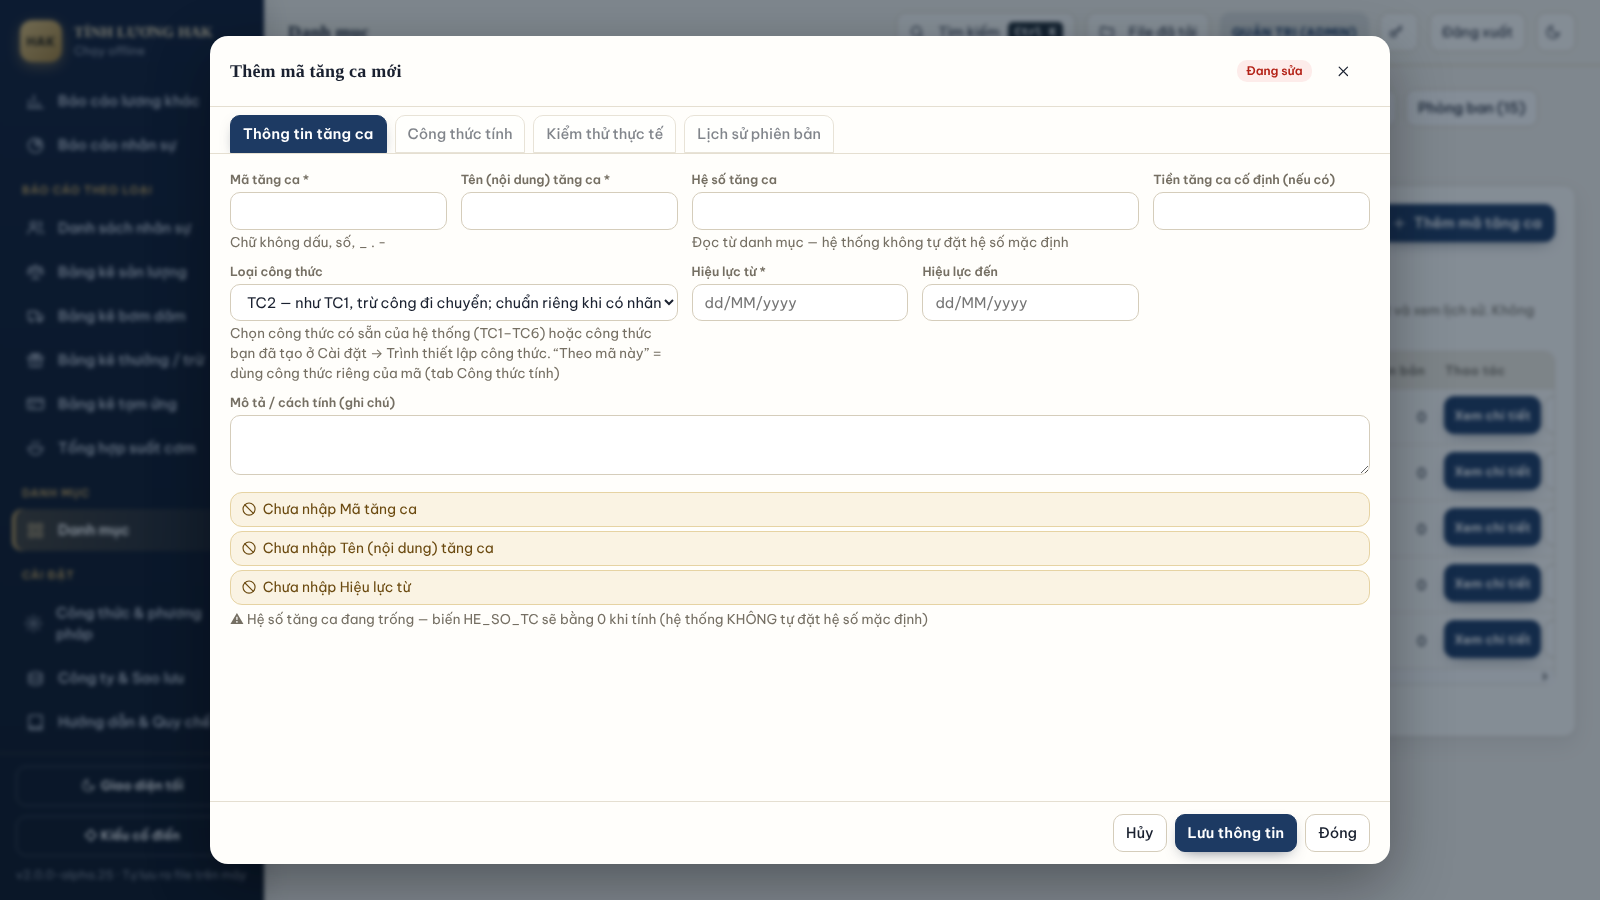
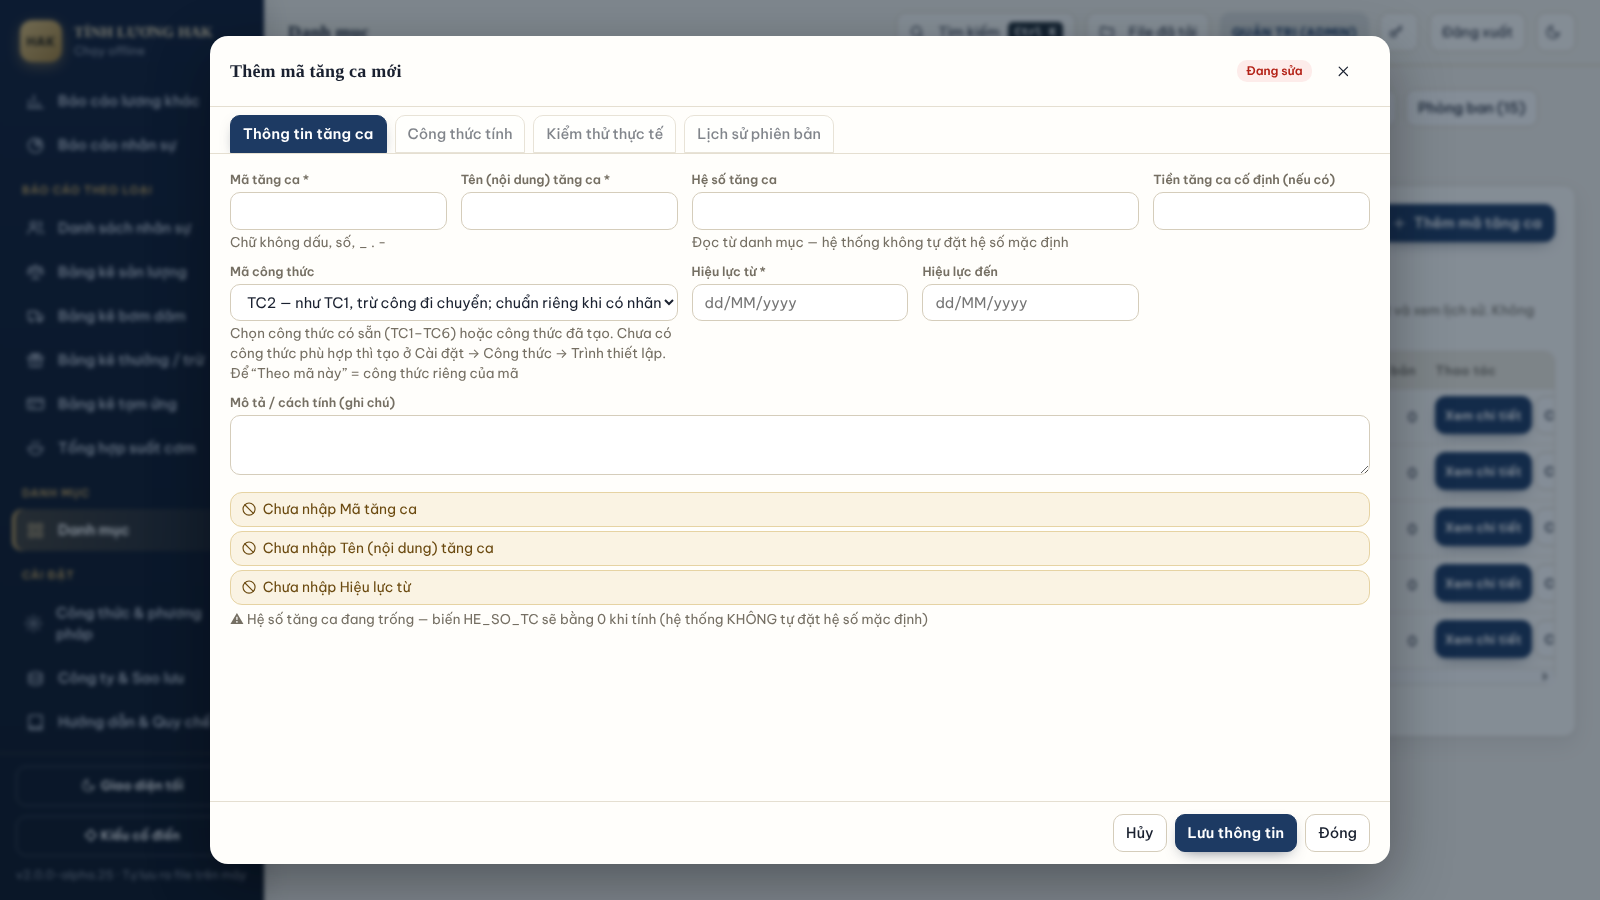
V10.3: mẫu công thức không bắt buộc (mặc định tự viết), Danh mục chỉ chọn Mã công thức
Claude-Session: https://claude.ai/code/session_01XqhkZaT6LSKzcUTdDwFx7z

diff --git a/LuongHAK_Offline/app.js b/LuongHAK_Offline/app.js
@@ -2184,29 +2184,30 @@
   /** Trình thiết lập công thức (V10): chọn loại → chọn mẫu → nhập số mẫu để xem giải thích bằng số thật → lưu Nháp (qua REPO, vẫn phải duyệt/kích hoạt). */
   var WZ_SAMPLE = { CONG_CHUAN: 26, CONG_TINH_LUONG: 28, CONG_TC: 2, CONG_LE: 0, CONG_PHEP: 0, CONG_TRUNG_CHUYEN: 0, CONG_DI_CHUYEN: 0, CONG_CHU_NHAT: 1, CONG_CHUAN_2: 0, HE_SO_TC: 1.5, MUC_PHU_CAP: 500000, NGUONG_PHU_CAP: 2, CONG_HUONG_PHU_CAP: 24, SO_NGAY_DUOC_HUONG: 10, MUC_HO_TRO: 50000, CONG_THUC_TE: 24, SO_XE_HOP_LE: 8, DON_GIA_HO_TRO: 20000 };
   function ctWizardPanel() {
-    var Wz = st.ctWz = st.ctWz || { loai: "OVERTIME", mau: 0, vars: {}, ma: "", ten: "", tu: "" };
+    var Wz = st.ctWz = st.ctWz || { loai: "OVERTIME", mau: -1, vars: {}, ma: "", ten: "", tu: "" };
     var box = h("div", { class: "card", "data-ct-wizard": "1" });
-    box.appendChild(h("div", { class: "hint", text: "Làm theo 4 bước: (1) chọn loại, (2) chọn mẫu gần nhất với quy chế rồi SỬA biểu thức cho đúng quy chế của bạn (hoặc chọn “Tự soạn” để viết từ đầu), (3) nhập số ví dụ để xem công thức tính ra bao nhiêu, (4) đặt mã/tên và lưu Nháp. Công thức lưu ở trạng thái Nháp, vẫn phải Gửi duyệt → Duyệt → Kích hoạt; kỳ lương đã chốt không bị đổi." }));
+    box.appendChild(h("div", { class: "hint", text: "Tạo công thức mới: (1) chọn loại, (2) viết biểu thức — muốn có sẵn khung thì chọn “Điền sẵn từ mẫu”, KHÔNG bắt buộc, (3) nhập số ví dụ để thử, (4) đặt mã/tên và lưu Nháp. Công thức lưu ở trạng thái Nháp, vẫn phải Gửi duyệt → Duyệt → Kích hoạt; kỳ lương đã chốt không bị đổi. Sau đó ở Danh mục (Tăng ca / Phụ cấp / Hỗ trợ) chỉ cần chọn mã công thức này." }));
     var step = function (n, t) { box.appendChild(h("div", { class: "fh", text: "Bước " + n + " — " + t })); };
     step(1, "Loại công thức");
     var bar = h("div", { class: "bar" });
-    CT_LOAI.forEach(function (lo) { bar.appendChild(btn(ctLoaiTen(lo[0]), Wz.loai === lo[0] ? "pri" : "", function () { Wz.loai = lo[0]; Wz.mau = 0; Wz.vars = {}; Wz.expr = null; render(); })); });
+    CT_LOAI.forEach(function (lo) { bar.appendChild(btn(ctLoaiTen(lo[0]), Wz.loai === lo[0] ? "pri" : "", function () { Wz.loai = lo[0]; Wz.mau = -1; Wz.vars = {}; Wz.expr = null; render(); })); });
     box.appendChild(bar);
-    var mau = CT_TEMPLATES.filter(function (x) { return x.loai === Wz.loai && !x.chuaKetNoi; }).concat([{ custom: true, loai: Wz.loai, ten: "— Tự soạn công thức mới (bắt đầu từ ô trống) —", moTa: "Tự viết biểu thức bằng các biến ở tab Thư viện biến và các hàm MIN / MAX / ROUND / IF. Ô “Số ví dụ” bên dưới giúp kiểm tra kết quả.", bieuThuc: "" }]);
-    step(2, "Chọn mẫu");
-    var sel = h("select", { "aria-label": "Mẫu công thức", style: "max-width:100%" });
-    mau.forEach(function (x, i) { sel.appendChild(h("option", { value: i, text: x.ten })); }); sel.value = Wz.mau;
+    var mau = CT_TEMPLATES.filter(function (x) { return x.loai === Wz.loai && !x.chuaKetNoi; });
+    step(2, "Biểu thức công thức");
+    var sel = h("select", { "aria-label": "Điền sẵn từ mẫu", style: "max-width:100%" });
+    sel.appendChild(h("option", { value: "-1", text: "— Không dùng mẫu: tự viết biểu thức —" }));
+    mau.forEach(function (x, i) { sel.appendChild(h("option", { value: i, text: "Điền sẵn từ mẫu: " + x.ten })); }); sel.value = String(Wz.mau);
     sel.addEventListener("change", function () { Wz.mau = +sel.value; Wz.vars = {}; Wz.expr = null; render(); });
-    box.appendChild(sel);
-    var T = mau[Wz.mau]; if (!T) return box;
-    box.appendChild(h("div", { class: "hint", text: T.moTa }));
+    box.appendChild(h("div", { class: "fld" }, [h("label", { text: "Mẫu có sẵn (không bắt buộc)" }), sel]));
+    var T = Wz.mau >= 0 && mau[Wz.mau] ? mau[Wz.mau] : { custom: true, ten: "", moTa: "", bieuThuc: "" };
+    if (T.moTa) box.appendChild(h("div", { class: "hint", text: T.moTa }));
     var biThuc = Wz.expr != null ? Wz.expr : T.bieuThuc;
     var taE = h("textarea", { rows: 2, "aria-label": "Biểu thức", style: "width:100%;font-family:monospace", "data-ct-wizard-expr": "1" }); taE.value = biThuc;
     taE.addEventListener("change", function () { Wz.expr = taE.value; Wz.vars = {}; render(); });
-    box.appendChild(h("div", { class: "fld" }, [h("label", { text: "Biểu thức (sửa trực tiếp được — mẫu chỉ là điểm bắt đầu)" }), taE]));
+    box.appendChild(h("div", { class: "fld" }, [h("label", { text: "Biểu thức" }), taE]));
     if (Wz.expr != null && Wz.expr !== T.bieuThuc && T.bieuThuc) box.appendChild(btn("↺ Khôi phục biểu thức của mẫu", "", function () { Wz.expr = null; Wz.vars = {}; render(); }));
     var vrW = FML.validate(biThuc || "");
-    if (!biThuc.trim()) { box.appendChild(h("div", { class: "hint", text: "Nhập biểu thức ở ô trên (VD: ROUND(MUC_PHU_CAP * CONG_HUONG_PHU_CAP / CONG_CHUAN))." })); return box; }
+    if (!biThuc.trim()) { box.appendChild(h("div", { class: "hint", text: "Nhập biểu thức ở ô trên để thử và lưu (VD: ROUND(MUC_PHU_CAP * CONG_HUONG_PHU_CAP / CONG_CHUAN))." })); return box; }
     if (!vrW.ok) { box.appendChild(h("div", { class: "warn", text: "⚠ Biểu thức không hợp lệ: " + vrW.errors.map(function (e) { return e.message; }).join("; ") })); return box; }
     step(3, "Thử bằng số ví dụ");
     var names = ctRefVars(biThuc), ctx = {}, vt = h("table");

diff --git a/LuongHAK_Offline/ui/formula-master.js b/LuongHAK_Offline/ui/formula-master.js
@@ -88,7 +88,7 @@
       function paint() {
         box.innerHTML = "";
         var rs = rows(), t = h("table", { "data-ot-table": "1" });
-        t.appendChild(h("tr", {}, [{ label: K.code }, { label: K.name.replace(" (nội dung)", "") }].concat(K.listCols, [{ label: "Loại công thức" }, { label: "Trạng thái" }, { label: "Hiệu lực" }, { label: "Công thức đang áp dụng" }, { label: "Số phiên bản" }, { label: "Thao tác" }]).map(function (c) { return h("th", c.tip ? { text: c.label + " ⓘ", title: c.tip, style: "cursor:help" } : { text: c.label }); })));
+        t.appendChild(h("tr", {}, [{ label: K.code }, { label: K.name.replace(" (nội dung)", "") }].concat(K.listCols, [{ label: "Mã công thức" }, { label: "Trạng thái" }, { label: "Hiệu lực" }, { label: "Công thức đang áp dụng" }, { label: "Số phiên bản" }, { label: "Thao tác" }]).map(function (c) { return h("th", c.tip ? { text: c.label + " ⓘ", title: c.tip, style: "cursor:help" } : { text: c.label }); })));
         rs.forEach(function (r) {
           var act = h("td", { class: "t ot-act" });
           act.appendChild(btn("Xem chi tiết", "pri", function () { openModal(r.ma, { tab: "info" }); }));
@@ -193,7 +193,7 @@
       grid.appendChild(fld(K.code, "ma", { req: true, locked: !M.isNew, note: M.isNew ? "Chữ không dấu, số, _ . -" : "Khóa của mã — không đổi" }));
       grid.appendChild(fld(K.name, "ten", { req: true }));
       K.fields.forEach(function (fd) { grid.appendChild(fld(fd.label, fd.key, { note: fd.note, money: fd.type === "money", right: fd.type !== "text", span2: fd.type === "pct" || fd.type === "num" ? !!fd.note || fd.key === "tyLe" : false, show: function (v) { return v === "" ? (fd.type === "pct" && IS_OT ? "(trống)" : "—") : (fd.type === "money" ? money(v) : v); } })); });
-      grid.appendChild(fld("Loại công thức", "loaiCT", { opts: loaiOpts, span2: true, note: IS_OT ? "Chọn công thức có sẵn của hệ thống (TC1–TC6) hoặc công thức bạn đã tạo ở Cài đặt → Trình thiết lập công thức. “Theo mã này” = dùng công thức riêng của mã (tab Công thức tính)" : "Dòng đầu = " + K.fallbackLabel + ". Hoặc chọn công thức có sẵn / công thức đã cấu hình", show: function (v) { return v || (IS_OT ? "(theo mã)" : "(trống — cách tính lịch sử)"); } }));
+      grid.appendChild(fld("Mã công thức", "loaiCT", { opts: loaiOpts, span2: true, note: IS_OT ? "Chọn công thức có sẵn (TC1–TC6) hoặc công thức đã tạo. Chưa có công thức phù hợp thì tạo ở Cài đặt → Công thức → Trình thiết lập. Để “Theo mã này” = công thức riêng của mã" : "Dòng đầu = " + K.fallbackLabel + ". Hoặc chọn công thức có sẵn / công thức đã cấu hình", show: function (v) { return v || (IS_OT ? "(theo mã)" : "(trống — cách tính lịch sử)"); } }));
       grid.appendChild(fld("Hiệu lực từ", "tu", { req: true, date: true, show: fdate }));
       grid.appendChild(fld("Hiệu lực đến", "den", { date: true, show: function (v) { return fdate(v) || "không giới hạn"; } }));
       grid.appendChild(fld("Mô tả / cách tính (ghi chú)", "moTa", { area: true, wide: true }));

diff --git a/LuongHAK_Offline/tests/e2e/run-e2e.js b/LuongHAK_Offline/tests/e2e/run-e2e.js
@@ -234,6 +234,10 @@ async function launch(dataDir, opt) {
   await w.click("#nav button[data-k=caidat]");
   const ctTabs = await w.locator(".bar.sub button").allInnerTexts();
   ok("Công thức tiền lương: đủ 7 tab (mục VII) + Trình thiết lập", ["Trình thiết lập công thức", "Tăng ca", "Phụ cấp", "Hỗ trợ", "Thư viện biến", "Mẫu công thức", "Kiểm tra công thức", "Lịch sử phiên bản"].every((t) => ctTabs.includes(t)), ctTabs.join(", "));
+  ok("Trình thiết lập: mẫu KHÔNG bắt buộc — mặc định không dùng mẫu, ô biểu thức trống, tự viết được", (await w.locator('[data-ct-wizard] select[aria-label="Điền sẵn từ mẫu"]').inputValue()) === "-1" && (await w.locator("[data-ct-wizard-expr]").inputValue()) === "");
+  await w.fill("[data-ct-wizard-expr]", "ROUND(CONG_TC * HE_SO_TC)"); await w.dispatchEvent("[data-ct-wizard-expr]", "change"); await w.waitForTimeout(150);
+  ok("Trình thiết lập: tự viết biểu thức → có giải thích bằng số, không cần chọn mẫu", (await w.locator("[data-ct-wizard-explain]").count()) === 1);
+  await w.selectOption('[data-ct-wizard] select[aria-label="Điền sẵn từ mẫu"]', "0"); await w.waitForTimeout(150);
   const wzTxt = await w.locator("[data-ct-wizard]").innerText();
   ok("V10: Trình thiết lập công thức — có 4 bước, giải thích bằng số thật và kết quả", /Bước 1/.test(wzTxt) && /Bước 4/.test(wzTxt) && (await w.locator("[data-ct-wizard-explain]").innerText()).includes("Kết quả"));
   await w.fill('[data-ct-wizard] input[aria-label="Mã công thức"]', "WZ_E2E"); await w.dispatchEvent('[data-ct-wizard] input[aria-label="Mã công thức"]', "change");
